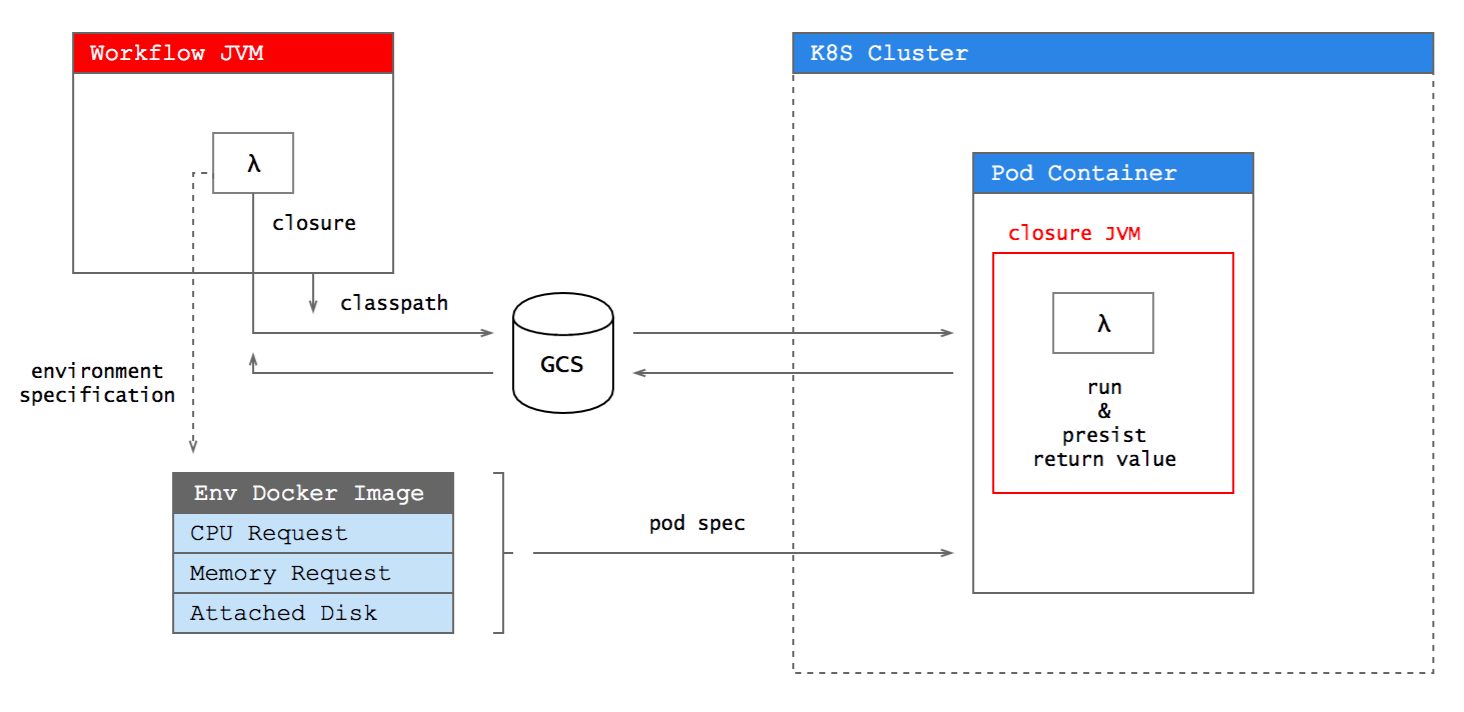
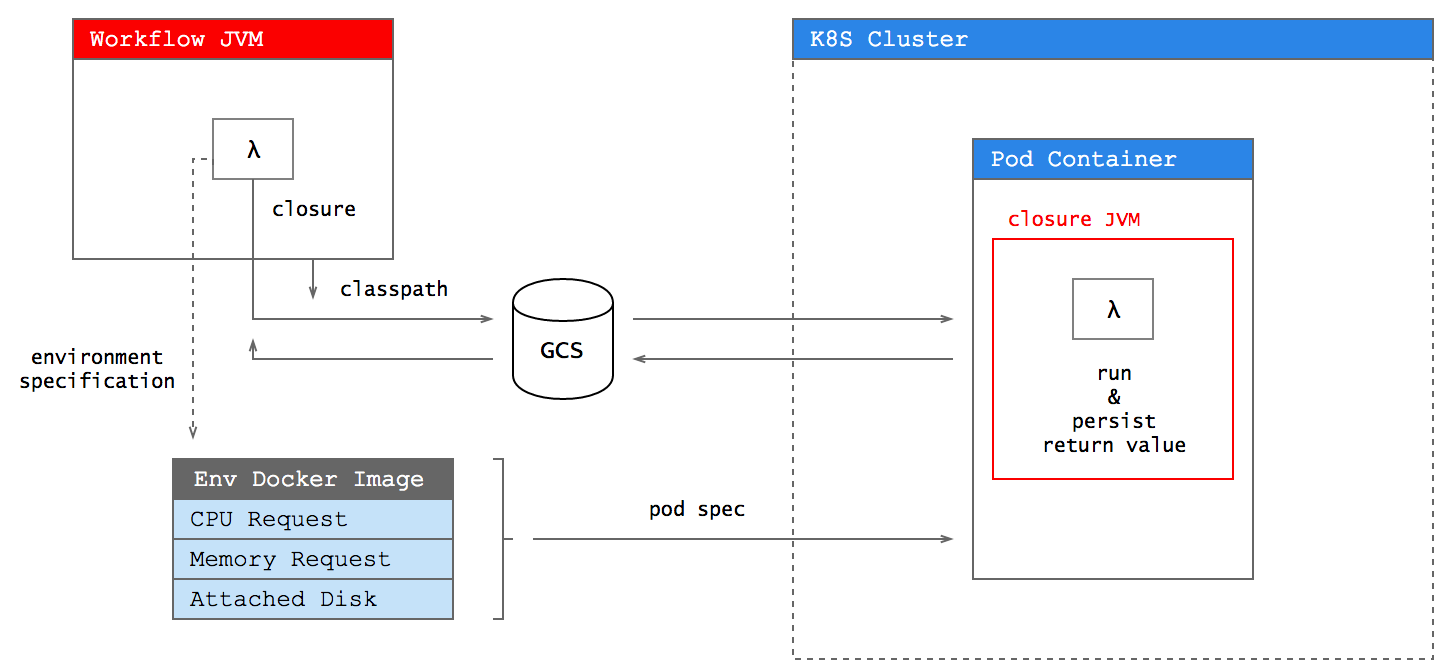
Fix typo in image

diff --git a/README.md b/README.md
@@ -60,8 +60,8 @@ This describes what Hype does from a high level point of view.
 
 <p align="center">
   <img src="https://github.com/spotify/hype/blob/master/doc/hype.png?raw=true"
-       width="732"
-       height="356"/>
+       width="723"
+       height="336"/>
 </p>
 
 ## Persistent Volumes
